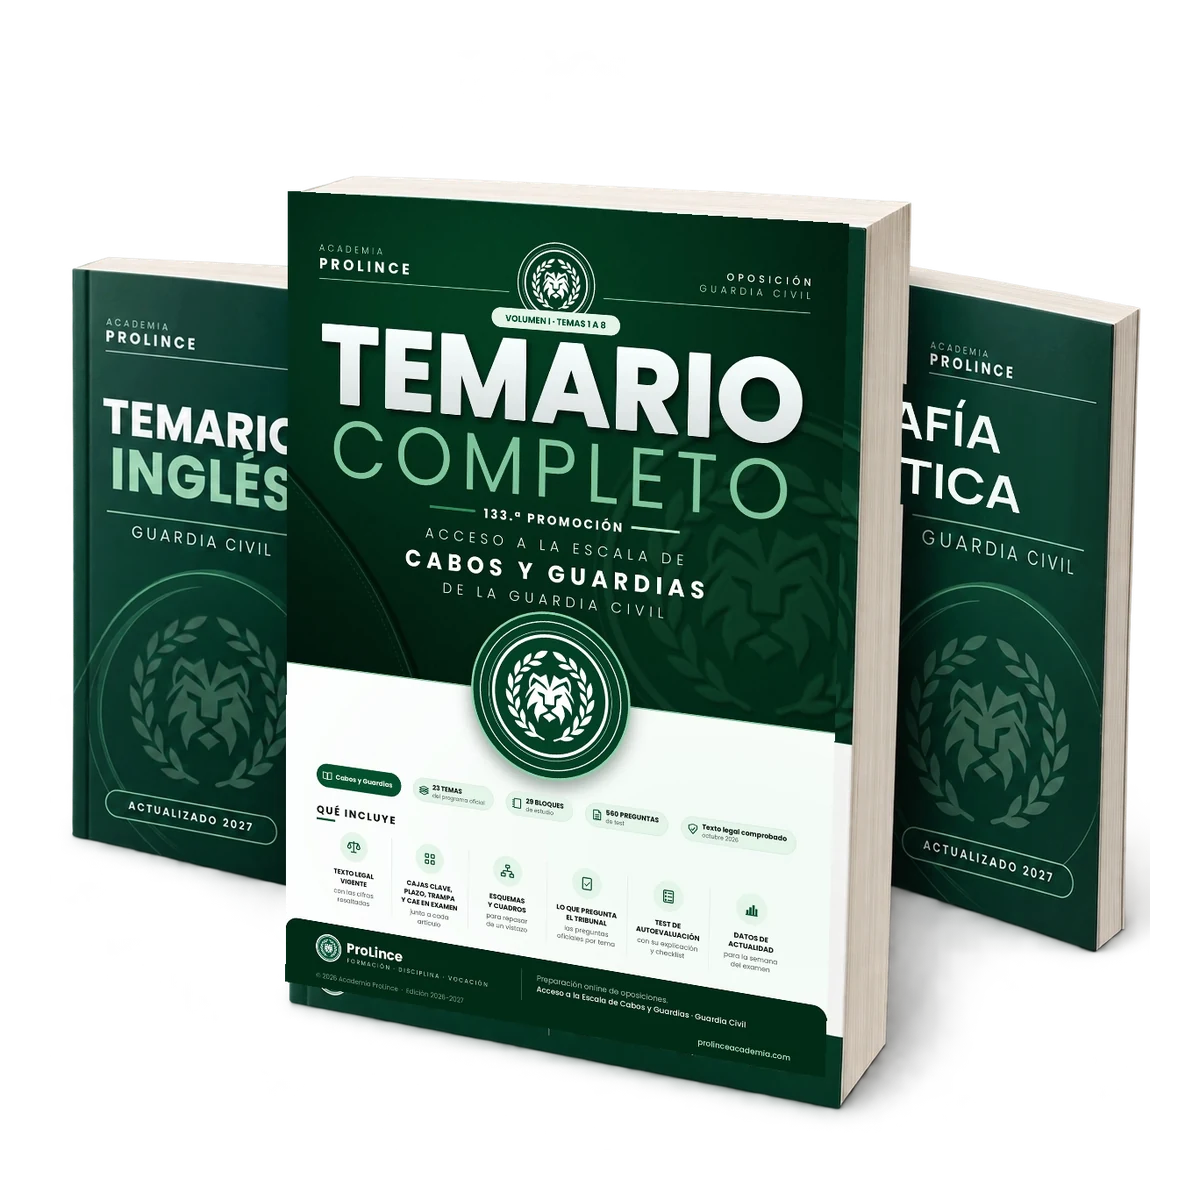
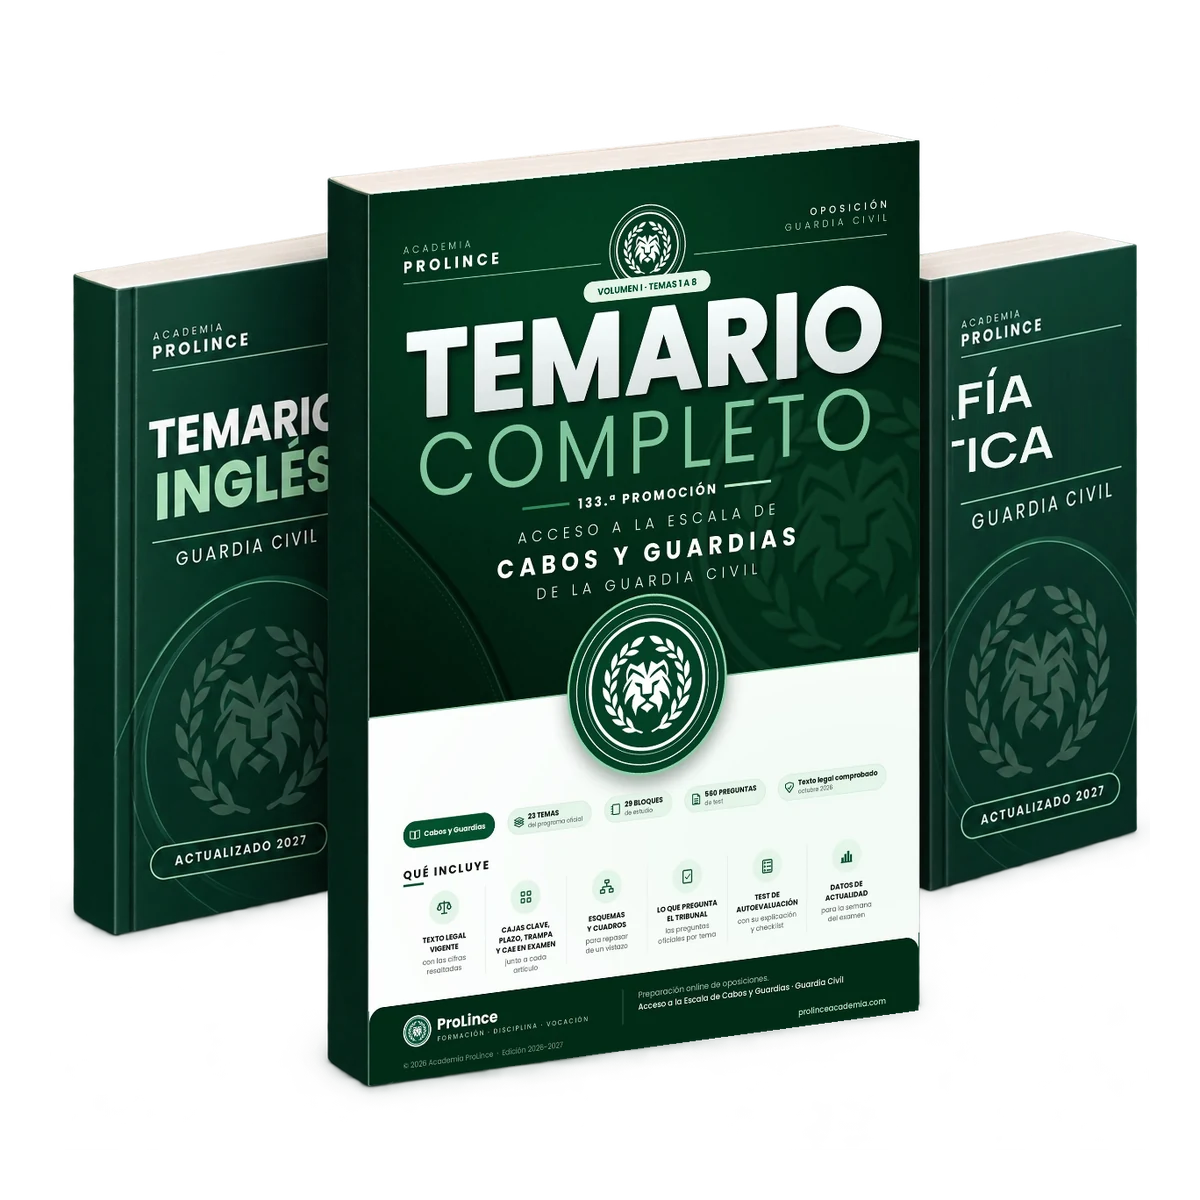
Unifica hacia la derecha la orientación de los libros de temarios

diff --git a/scripts/generar-temarios-realistas.py b/scripts/generar-temarios-realistas.py
@@ -11,10 +11,10 @@ ROOT = Path(__file__).resolve().parents[1]
 SOURCES = ROOT / 'scripts/recursos/temarios'
 OUTPUT = ROOT / 'public/temarios/miniaturas'
 # Vértices de la cara frontal: superior izquierdo, superior derecho,
-# inferior derecho, inferior izquierdo, en coordenadas normalizadas a 1280 × 1280.
+# inferior derecho, inferior izquierdo, en coordenadas normalizadas a 1254 × 1254.
 FRONTS = {
-    'gc': [(277, 164), (930, 202), (902, 1196), (274, 1084)],
-    'cgj': [(277, 164), (927, 207), (915, 1205), (277, 1114)],
+    'gc': [(364, 165), (991, 103), (990, 1095), (364, 1180)],
+    'cgj': [(357, 175), (1013, 113), (1013, 1112), (357, 1202)],
 }
 
 
@@ -46,7 +46,7 @@ for course, folder in [('gc', 'guardia-civil'), ('cgj', 'guardias-jovenes')]:
         if kind == 'completo':
             original = Image.open(ROOT / f'public/temarios/{folder}/001.webp').convert('RGBA')
             texture = original.transform(image.size, Image.Transform.PERSPECTIVE,
-                perspective(original.size, [(x * image.width / 1280, y * image.height / 1280)
+                perspective(original.size, [(x * image.width / 1254, y * image.height / 1254)
                     for x, y in FRONTS[course]]), Image.Resampling.BICUBIC)
             image.alpha_composite(texture)
         # Margen constante: ni libros ni sombras quedan pegados al borde de la tarjeta.

diff --git a/scripts/recursos/temarios/README.md b/scripts/recursos/temarios/README.md
@@ -47,3 +47,15 @@ sin comprimir las letras para encajar el título entero en la franja visible.
 «ORTOGRAFÍA» y «Y GRAMÁTICA» ocupan la cubierta completa; el libro principal
 oculta de forma natural el comienzo de ambas líneas. Se conserva la perspectiva
 suave de la cubierta. Las dos bases WebP incluyen esta corrección.
+
+## Orientación común hacia la derecha
+
+Prompt de edición aplicado a los dos packs y al resumen del Colegio: «Rota los
+libros físicamente para que todos miren hacia la derecha, como el resumen de
+Guardia Civil: lomo verde visible a la izquierda y bordes de la portada que
+ascienden suavemente hacia la derecha. No reflejes letras ni logotipos. Conserva
+portadas, curso, estilo realista, sombras suaves y transparencia».
+
+La preparación vuelve a aplicar las portadas principales reales en su nueva
+perspectiva. El título de ortografía sigue compuesto sin compresión horizontal
+y queda parcialmente oculto detrás del libro principal.
